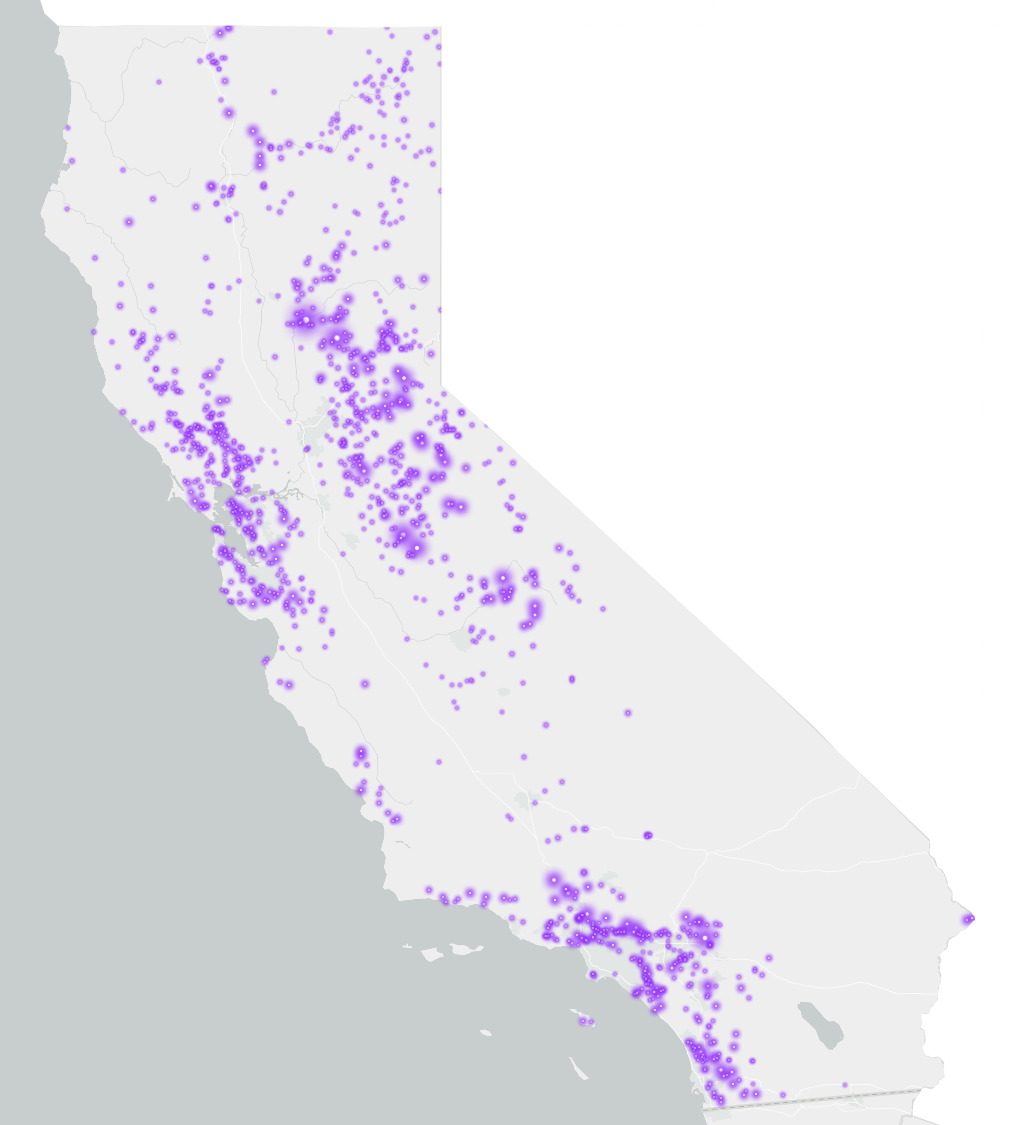
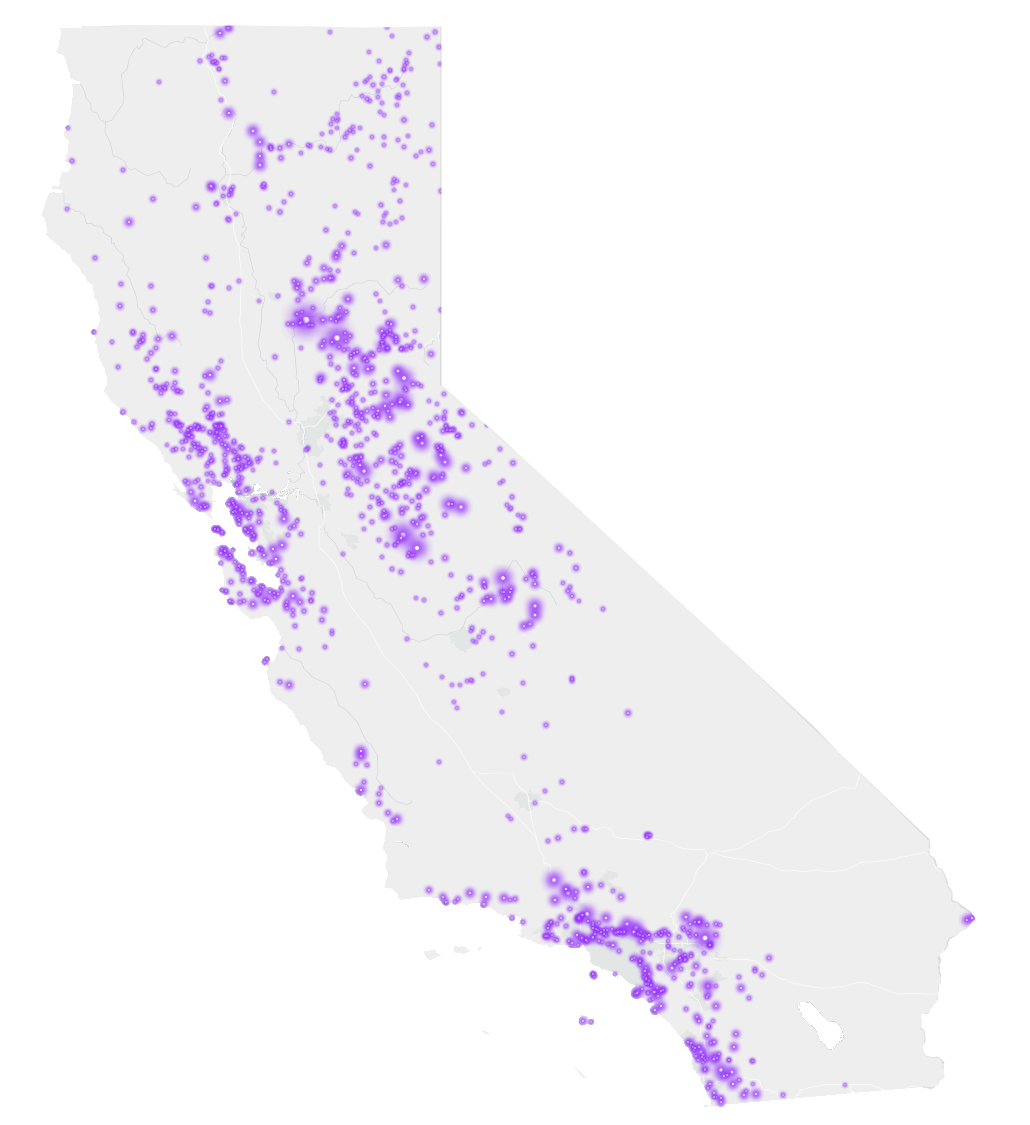
Made story images transparent (#31)

Changed region(s): [[0.0, 0.0, 0.901, 1.0], [0.7767, 0.8711, 0.8388, 0.9333]]

diff --git a/src/story.js b/src/story.js
@@ -1,7 +1,7 @@
 import React, { Component } from 'react'
 import mapImage1 from './assets/story-image1.png'
 import mapImage2 from './assets/story-image2.png'
-import barChart from './assets/story-image3.png'
+import barChart from './assets/story-image4.png'
 
 class Story extends Component {
     render() {
